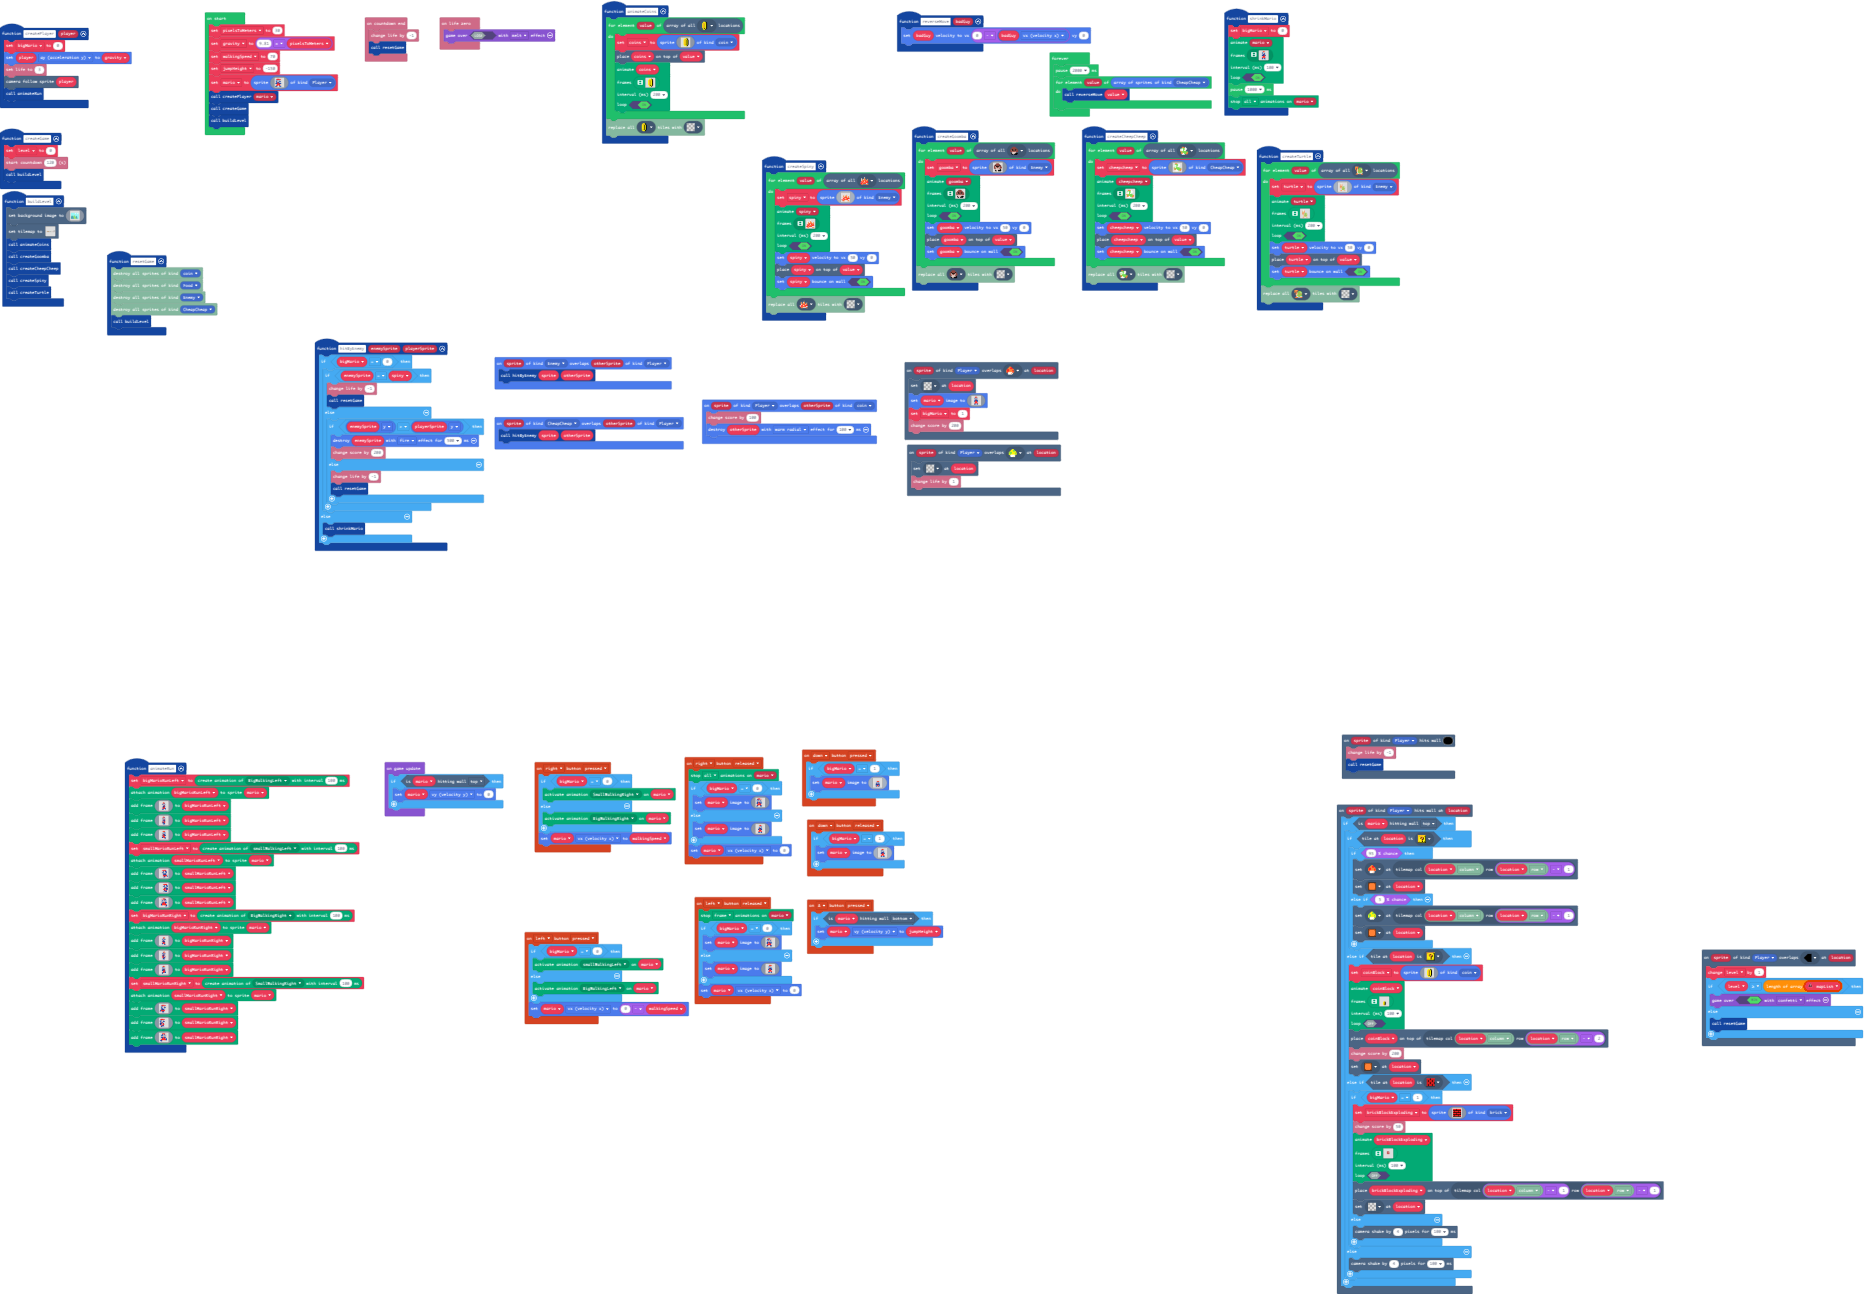
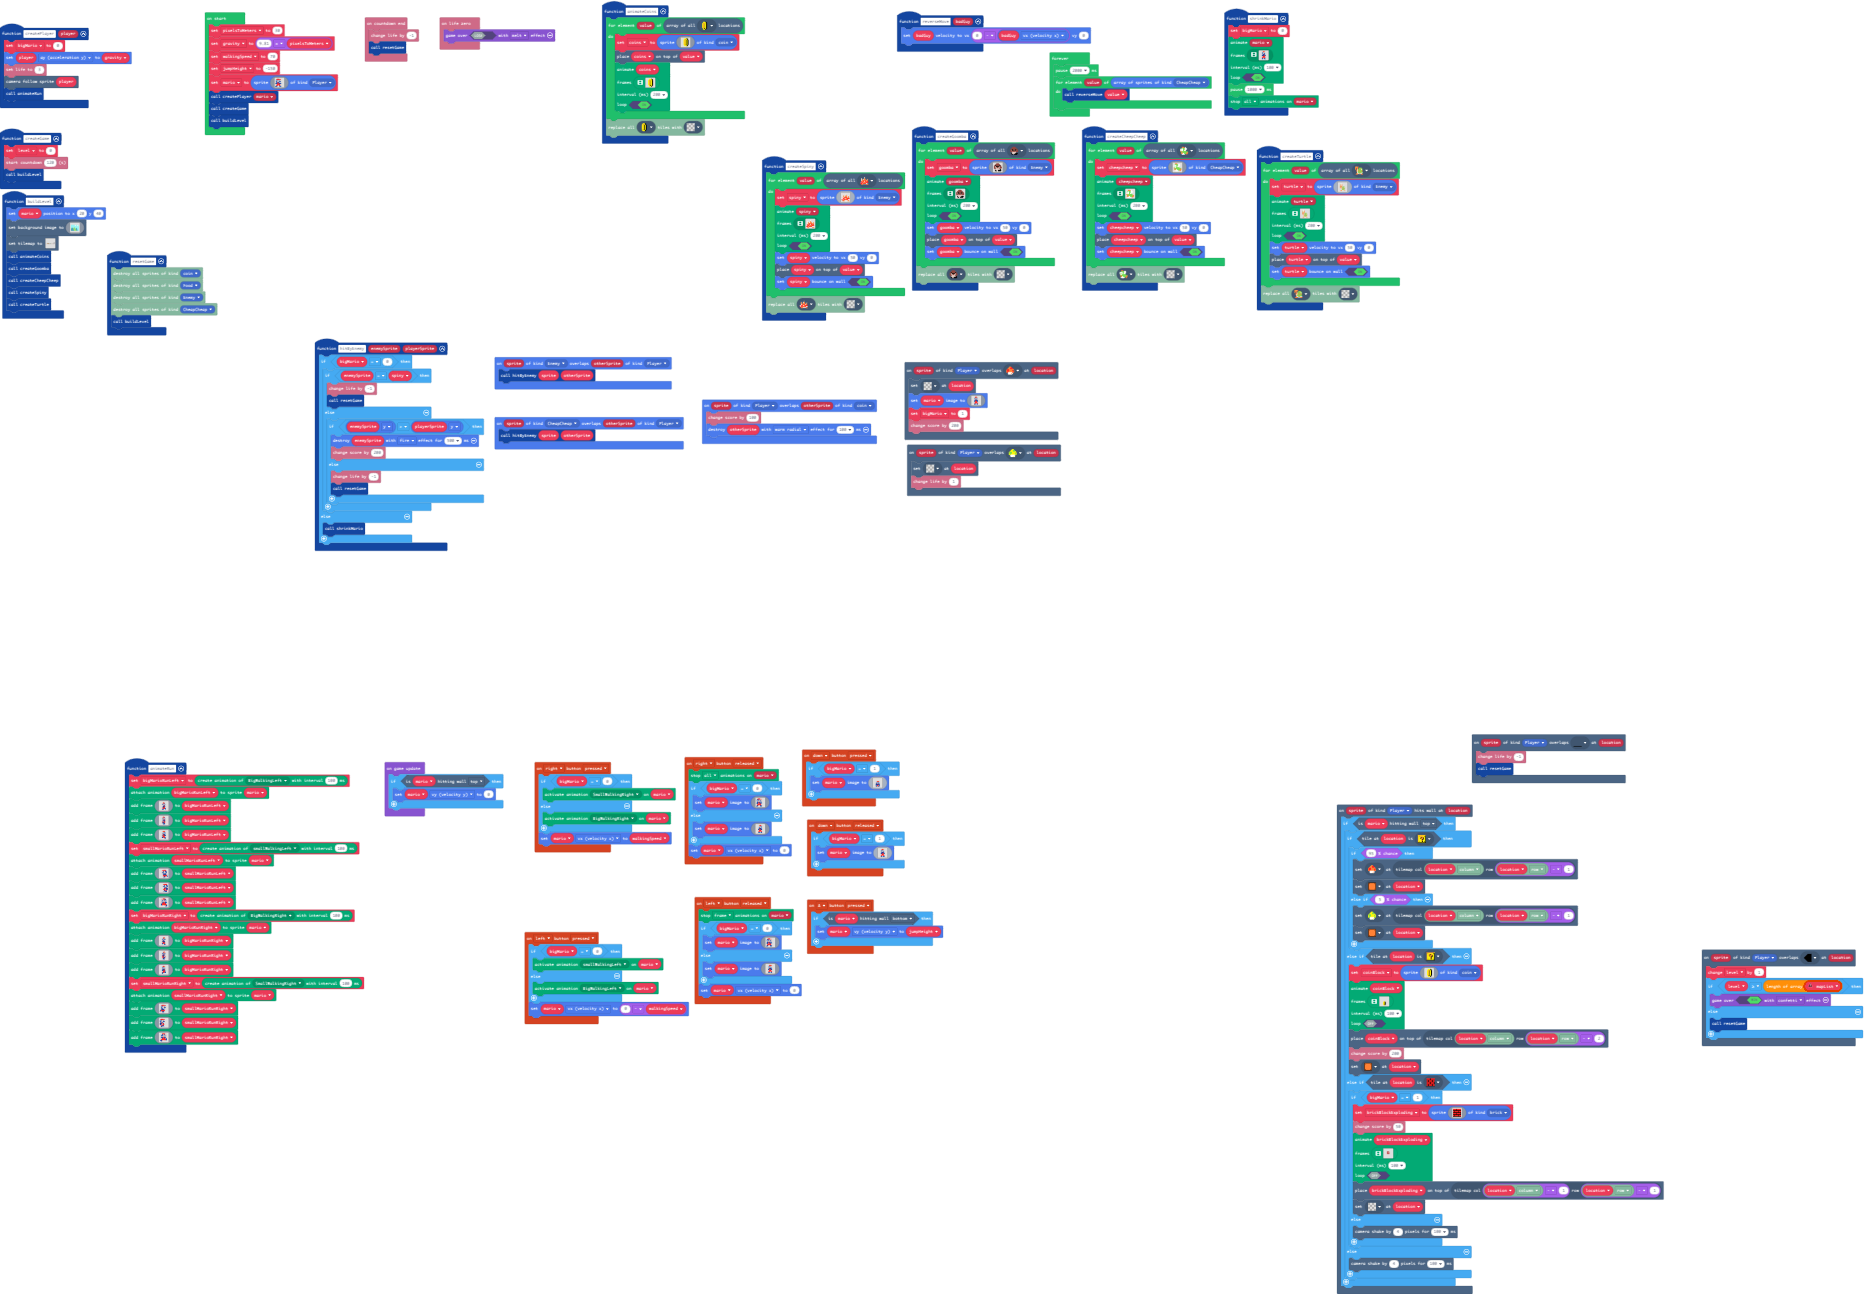
drop down hole you die

Changed region(s): [[0.7111, 0.5564, 0.8657, 0.6182], [0.0, 0.1546, 0.0618, 0.2473]]

diff --git a/tilemap.g.ts b/tilemap.g.ts
@@ -38,11 +38,13 @@ namespace myTiles {
     export const tile17 = image.ofBuffer(hex``);
     //% fixedInstance jres blockIdentity=images._tile
     export const tile18 = image.ofBuffer(hex``);
+    //% fixedInstance jres blockIdentity=images._tile
+    export const tile19 = image.ofBuffer(hex``);
 
     helpers._registerFactory("tilemap", function(name: string) {
         switch(helpers.stringTrim(name)) {
             case "level7":
[2 lines of base64/hex data omitted]
 . . . . . . . . . . . . . . . . . . . . . . . . . . . . . . . . 
 . . . . . . . . . . . . . . . . . . . . . . . . . . . . . . . . 
 . . . . . 2 . . . . . . . . . . . . . . . . . . . . . . . . . . 
@@ -51,7 +53,7 @@ namespace myTiles {
 . . . . . . . . . 2 . 2 . . . 2 2 . . . . . . . . . . . . . . . 
 . . . . . . . . 2 2 . 2 2 . . 2 2 . . . . . . . . . . . . . . . 
 2 2 2 2 2 2 2 2 2 2 . 2 2 2 2 2 2 2 2 2 2 2 2 2 2 2 2 2 2 2 2 2 
-`, [myTiles.transparency16,myTiles.tile2,myTiles.tile4,myTiles.tile5,myTiles.tile1,myTiles.tile3,myTiles.tile6,myTiles.tile7,myTiles.tile9,myTiles.tile8,myTiles.tile10,myTiles.tile14,myTiles.tile15,myTiles.tile16,myTiles.tile17,myTiles.tile18], TileScale.Sixteen);
+`, [myTiles.transparency16,myTiles.tile2,myTiles.tile4,myTiles.tile5,myTiles.tile1,myTiles.tile3,myTiles.tile6,myTiles.tile7,myTiles.tile9,myTiles.tile8,myTiles.tile10,myTiles.tile14,myTiles.tile15,myTiles.tile16,myTiles.tile17,myTiles.tile18,myTiles.tile19], TileScale.Sixteen);
         }
         return null;
     })
@@ -95,6 +97,8 @@ namespace myTiles {
             case "tile17":return tile17;
             case "myTile6":
             case "tile18":return tile18;
+            case "myTile7":
+            case "tile19":return tile19;
         }
         return null;
     })

diff --git a/main.ts b/main.ts
@@ -99,6 +99,10 @@ controller.A.onEvent(ControllerButtonEvent.Pressed, function () {
         mario.vy = jumpHeight
     }
 })
+scene.onOverlapTile(SpriteKind.Player, assets.tile`myTile7`, function (sprite, location) {
+    info.changeLifeBy(-1)
+    resetGame()
+})
 function animateRun () {
     bigMarioRunLeft = animation.createAnimation(ActionKind.BigWalkingLeft, 100)
     animation.attachAnimation(mario, bigMarioRunLeft)
@@ -483,6 +487,7 @@ info.onCountdownEnd(function () {
     resetGame()
 })
 function buildLevel () {
+    mario.setPosition(20, 40)
     scene.setBackgroundImage(assets.image`backgroundImage1`)
     tiles.setTilemap(tilemap`level7`)
     animateCoins()
@@ -553,10 +558,6 @@ function hitByEnemy (enemySprite: Sprite, playerSprite: Sprite) {
 }
 info.onLifeZero(function () {
     game.over(false, effects.melt)
-})
-scene.onHitTile(SpriteKind.Player, 15, function (sprite) {
-    info.changeLifeBy(-1)
-    resetGame()
 })
 function createPlayer (player2: Sprite) {
     bigMario = 0
